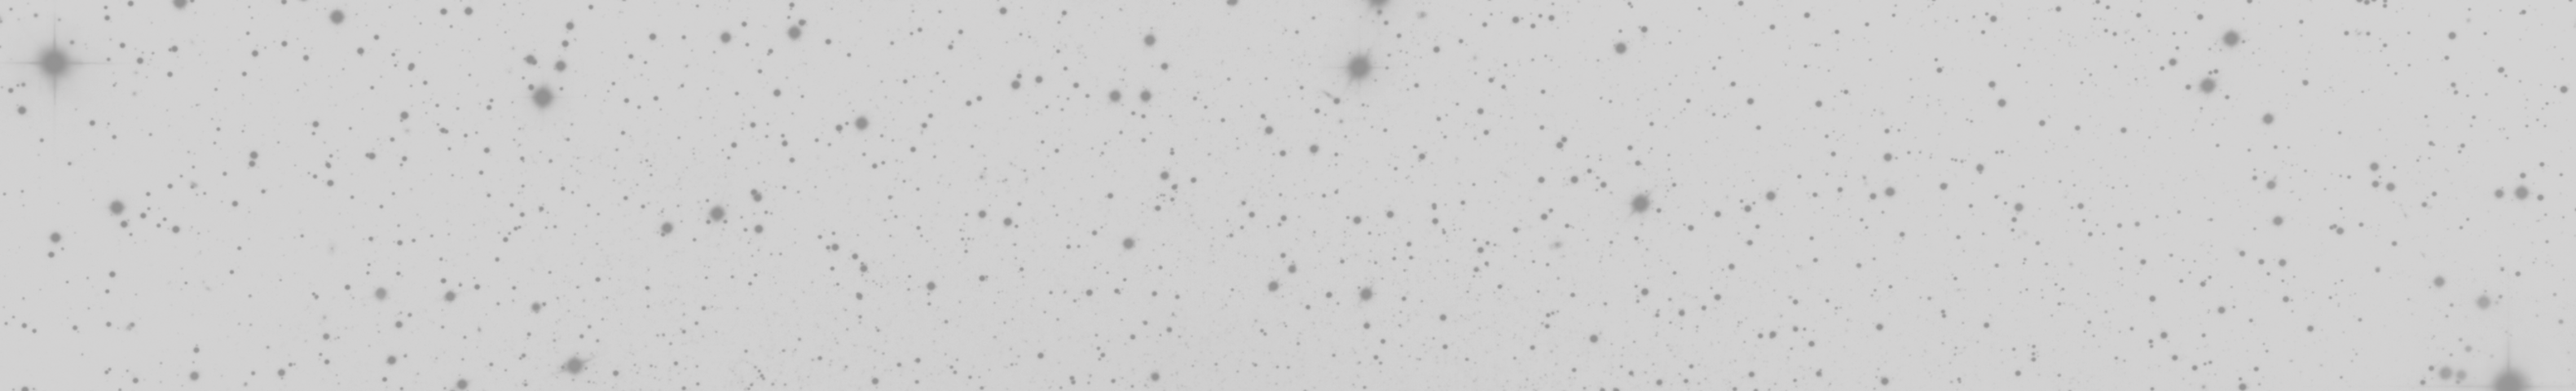
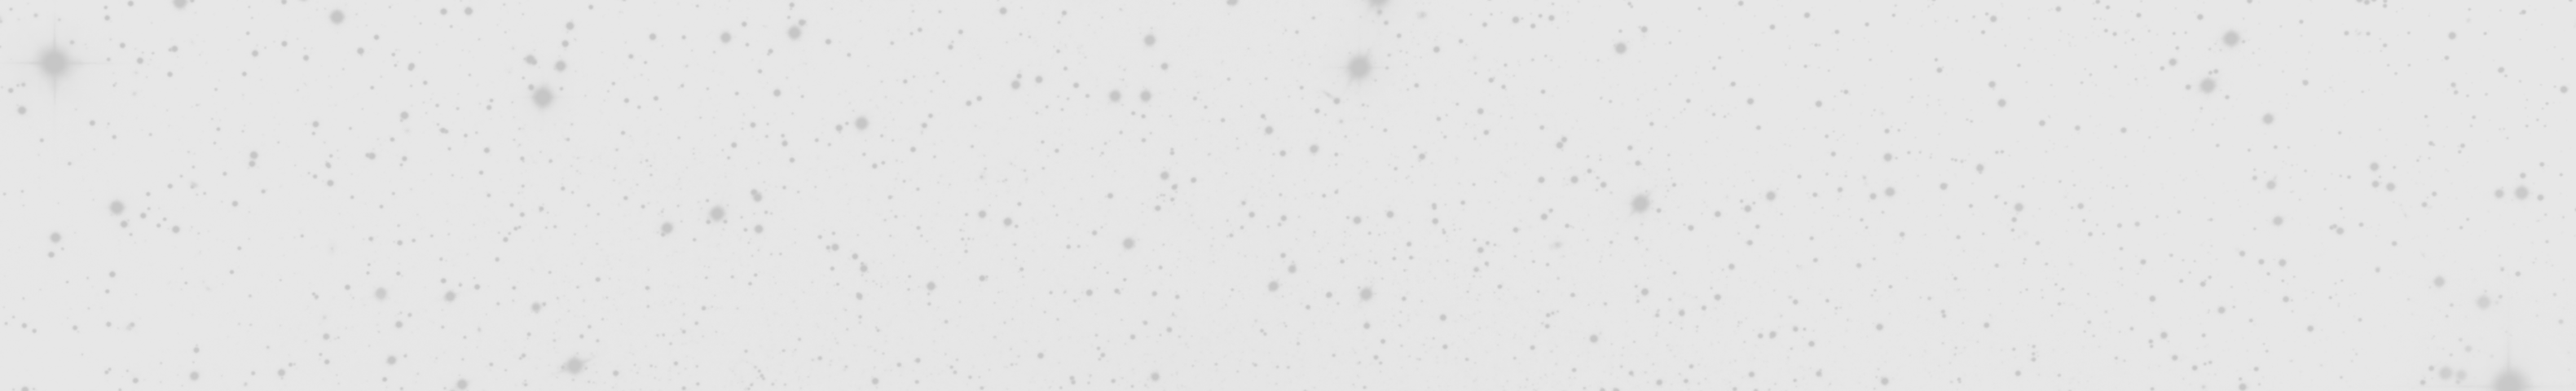
Small improvements saw after game was uploaded to pyweek.org.
Background improved.

When ship hit's THE BOSS he dies.

After enemy ship is hit, he will not fire.

diff --git a/pywander/sprites/enemy.py b/pywander/sprites/enemy.py
@@ -27,6 +27,17 @@ class EnemySprite(SpriteBase):
             elapsed = self.time - time_before
             self.x_position -= int(elapsed * self.speed)
             self.image.rect.left = int(self.x_position)
+
+            if random.randint(1, 6) == 6:
+                time_now = pygame.time.get_ticks()
+                if self.last_fire_time + self.fire_time_delay < time_now:
+                    bullet = BulletSprite(False)
+                    bullet.image.rect.left = self.image.rect.left + self.image.rect.width / 2 - 4
+                    bullet.image.rect.top = self.image.rect.top + self.image.rect.height / 2 - 9
+                    bullet.rect = bullet.image.rect
+                    game_board.enemy_group.add(bullet)
+                    self.last_fire_time = time_now
+
             super(EnemySprite, self).draw_on_surface(surface, game_board)
         else:
             if self.explosion_frame != 15:
@@ -35,16 +46,6 @@ class EnemySprite(SpriteBase):
                 self.image.rect = tmp_rect
                 self.explosion_frame += 1
                 super(EnemySprite, self).draw_on_surface(surface, game_board)
-
-        if random.randint(1, 6) == 6:
-            time_now = pygame.time.get_ticks()
-            if self.last_fire_time + self.fire_time_delay < time_now:
-                bullet = BulletSprite(False)
-                bullet.image.rect.left = self.image.rect.left + self.image.rect.width / 2 - 4
-                bullet.image.rect.top = self.image.rect.top + self.image.rect.height / 2 - 9
-                bullet.rect = bullet.image.rect
-                game_board.enemy_group.add(bullet)
-                self.last_fire_time = time_now
 
     def show_explosion(self):
         self.start_explosion = True

diff --git a/pywander/sprites/ship.py b/pywander/sprites/ship.py
@@ -7,7 +7,7 @@ from pywander.objects.image import ImageObject
 class ShipSprite(SpriteBase):
     ship_speed = 1.99
     ship_top = 180.00
-    ship_left = 10.00
+    ship_left = 30.00
 
     last_fire_time = 0
     fire_delay = 1020
@@ -17,21 +17,21 @@ class ShipSprite(SpriteBase):
         self.image = ImageObject('ship.png')
 
     def move_ship_down(self):
-        if self.image.rect.top + self.ship_speed < 380:
+        if self.image.rect.top + self.ship_speed < 401:
             self.ship_top += self.ship_speed
 
     def move_ship_up(self):
-        if self.image.rect.top - self.ship_speed > 0:
+        if self.image.rect.top - self.ship_speed > 35:
             self.ship_top -= self.ship_speed
 
     def move_ship_left(self):
-        if self.image.rect.left - self.ship_speed > 0:
+        if self.image.rect.left - self.ship_speed > 10:
             self.ship_left -= self.ship_speed
 
     def move_ship_right(self):
-        if self.image.rect.left + self.ship_speed < 550:
+        if self.image.rect.left + self.ship_speed < 580:
             self.ship_left += self.ship_speed
-    
+
     def draw_on_surface(self, surface, game_board):
         self.image.rect.top = int(self.ship_top)
         self.image.rect.left = int(self.ship_left)

diff --git a/pywander/boards/game.py b/pywander/boards/game.py
@@ -127,7 +127,8 @@ class GameBoard(BoardBase):
 
         hit = pygame.sprite.spritecollideany(self.ship, self.enemy_group)
         if hit:
-            if not isinstance(hit, AsteroidSprite):
+            fatal = isinstance(hit, AsteroidSprite) or isinstance(hit, BossSprite)
+            if not fatal:
                 hit.kill()
 
                 if isinstance(hit, EnemySprite):
